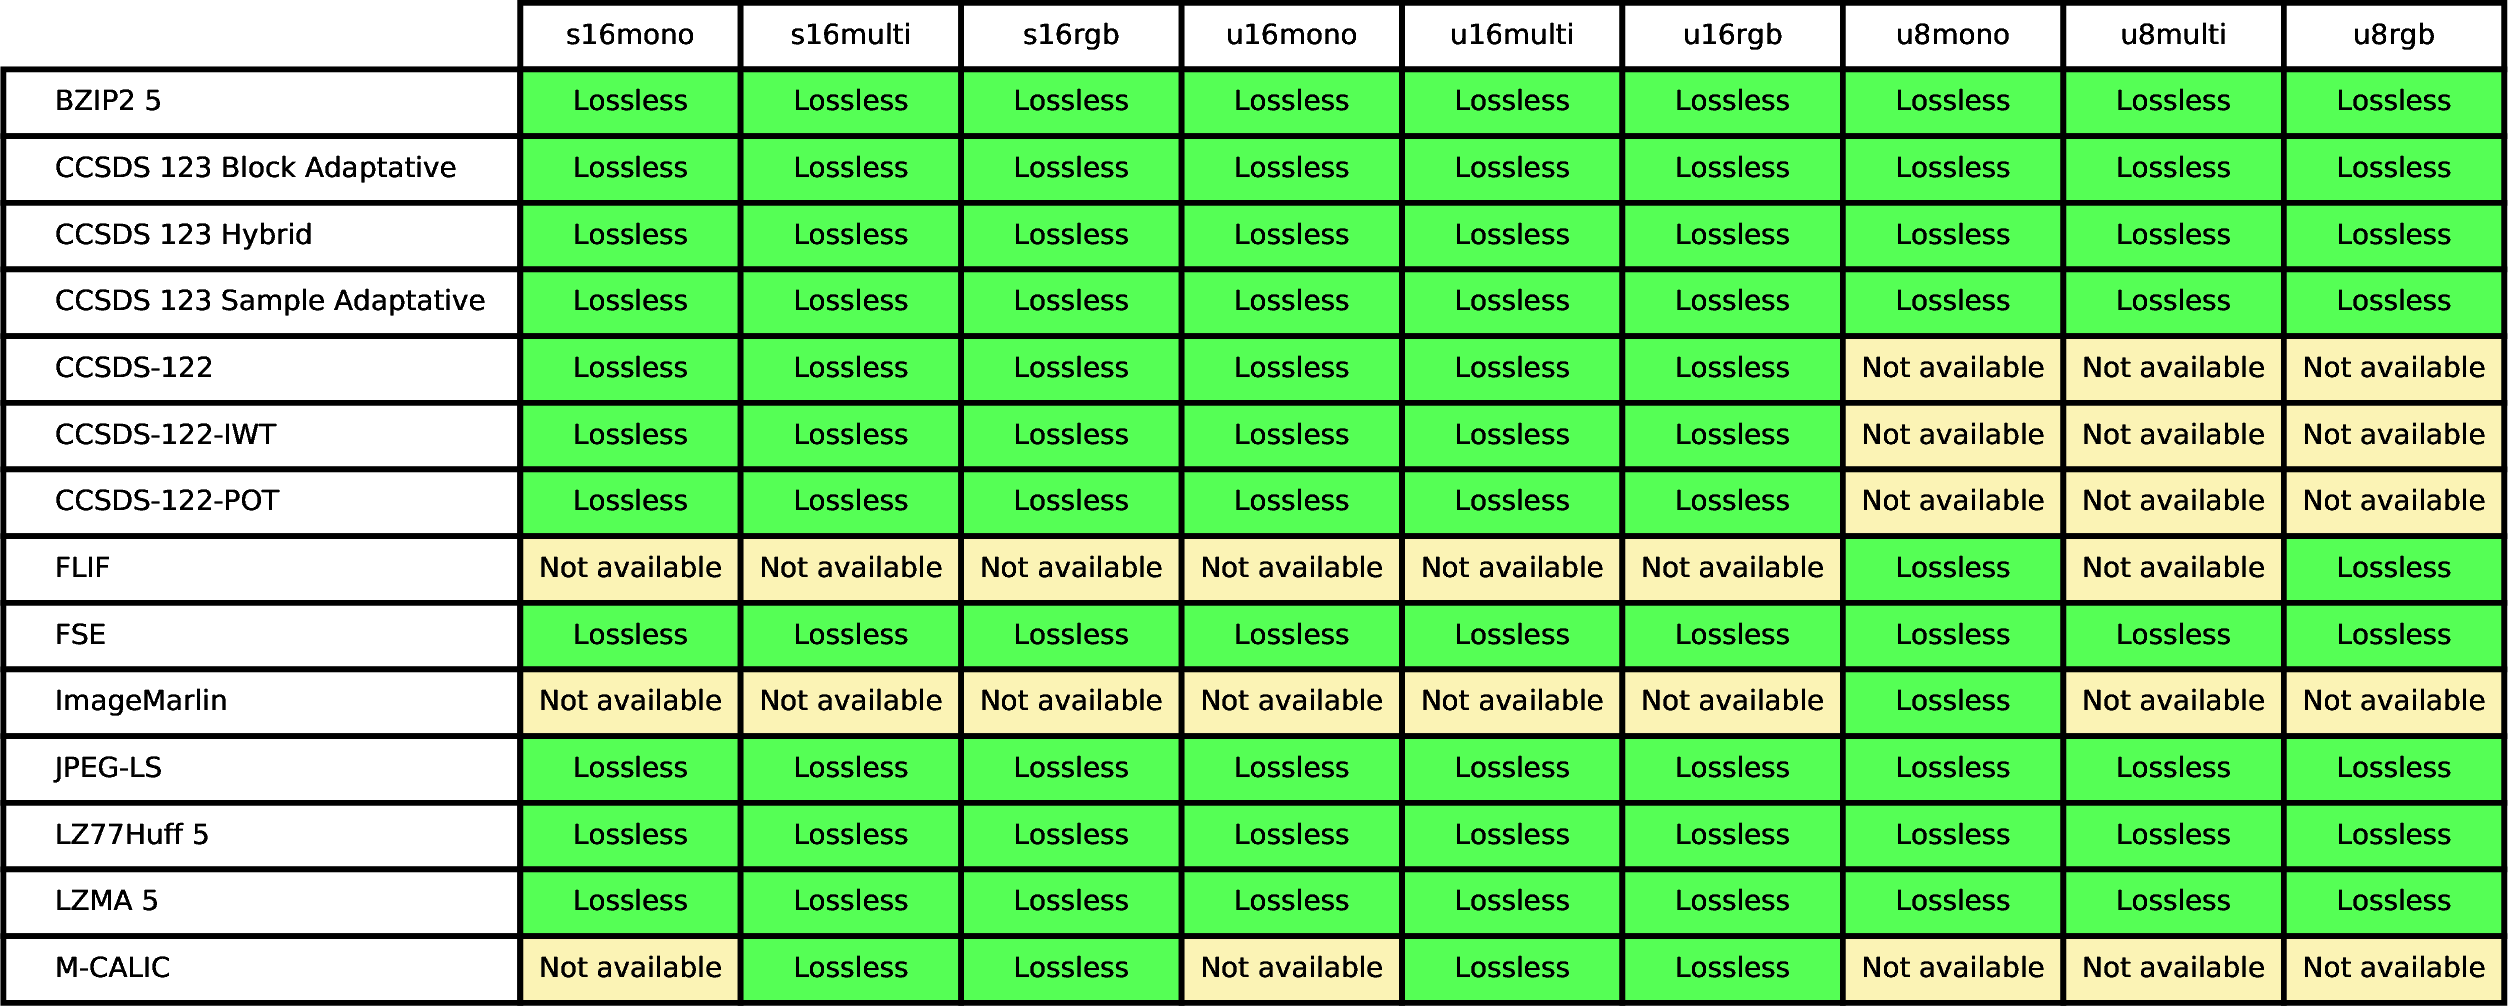
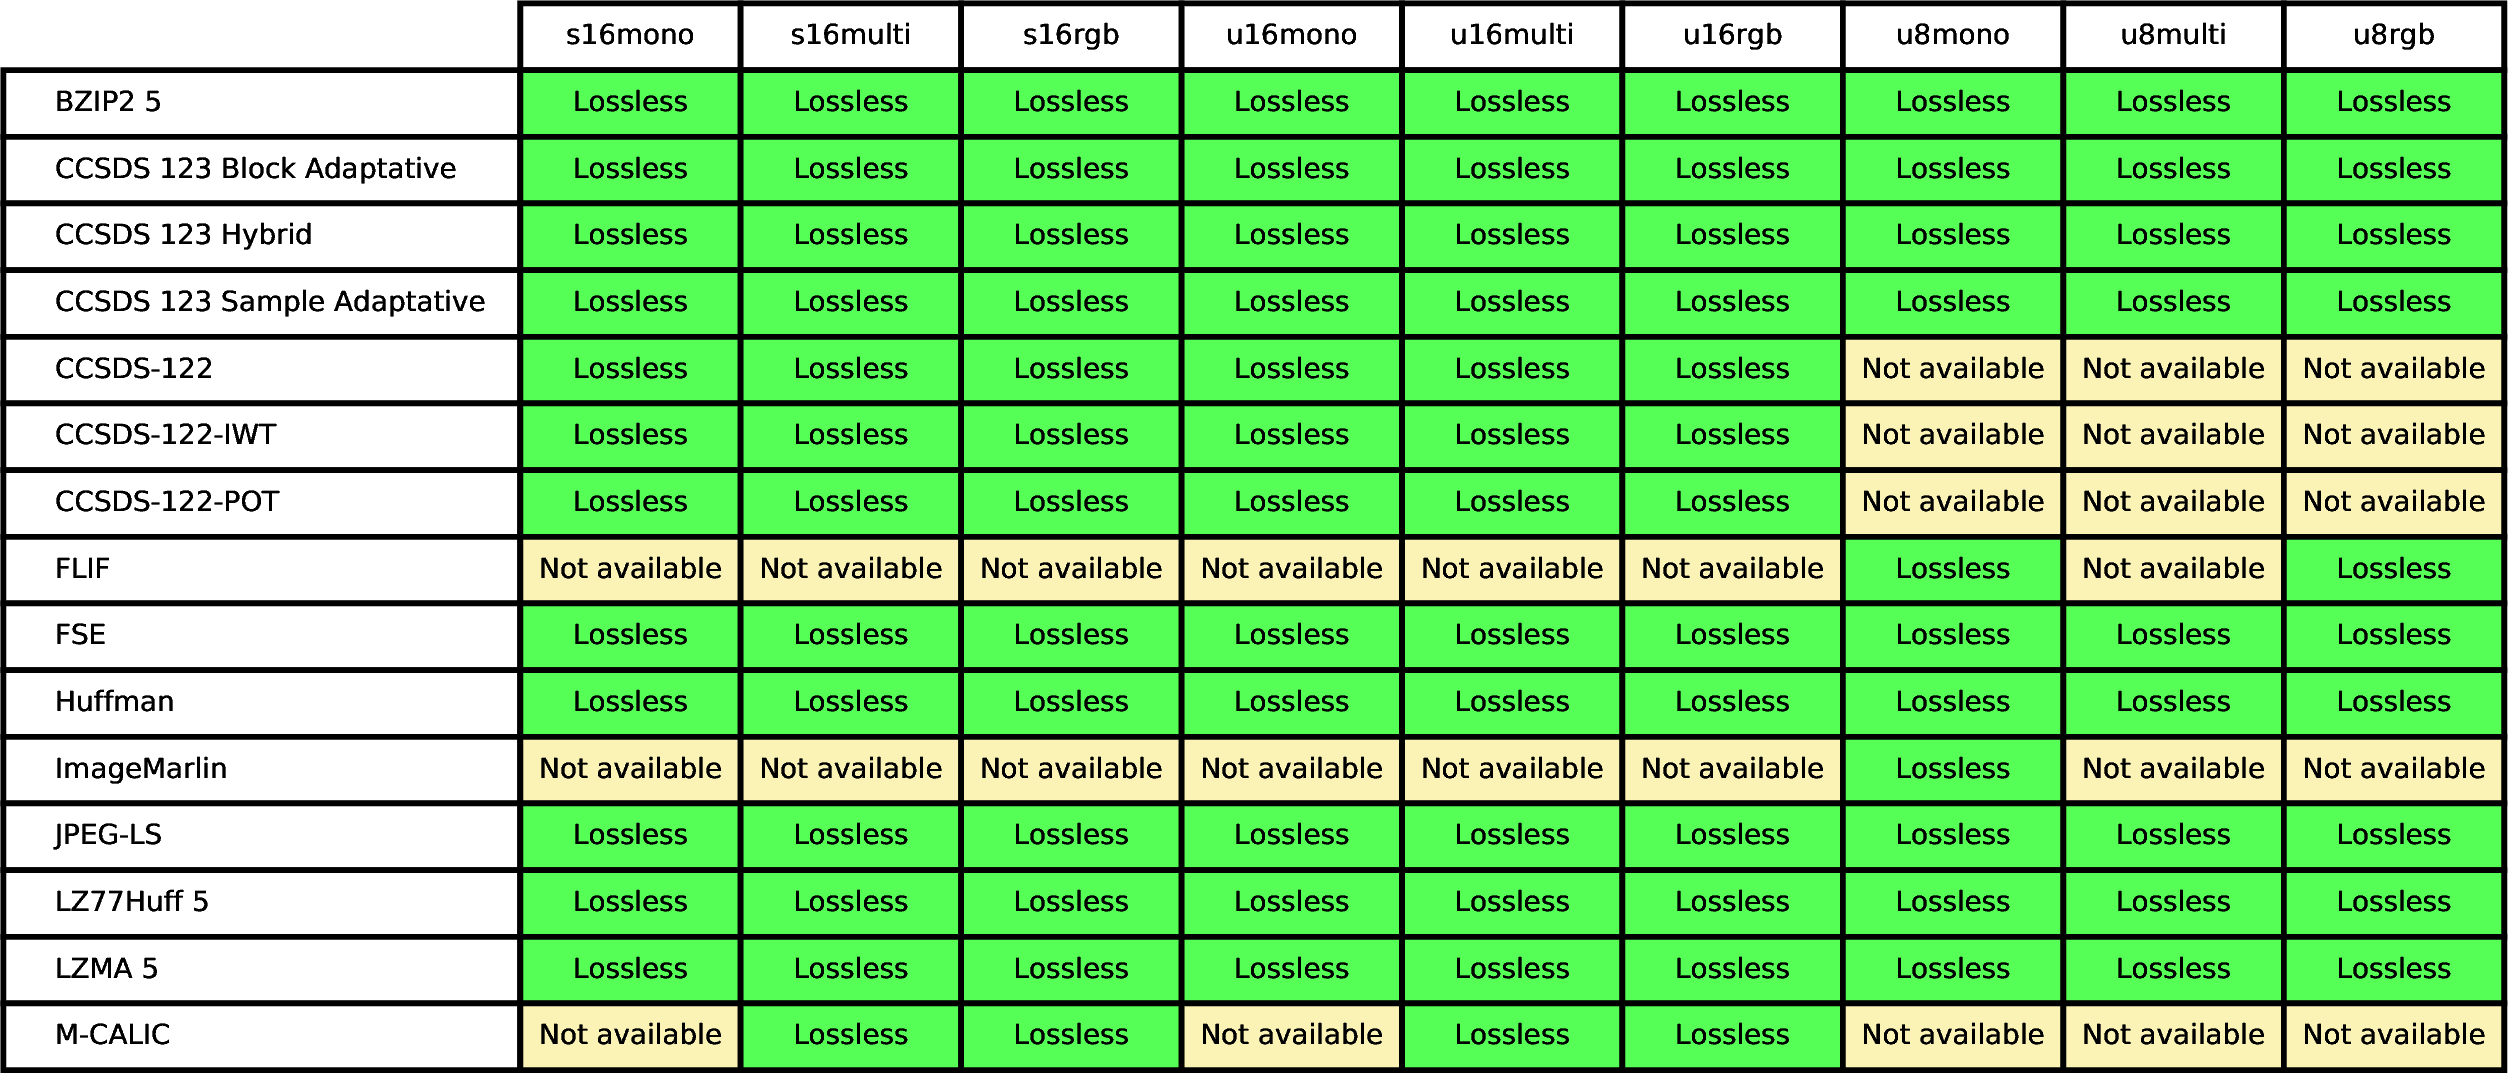
Merged esterjara's pull request (added missing an __init__.py)
Former-commit-id: fdf520b833d822e9996378cc73b7758d83b7cd35

diff --git a/plugins/test_all_codecs/test_all_codecs.py b/plugins/test_all_codecs/test_all_codecs.py
@@ -27,6 +27,7 @@ from plugins import plugin_ccsds122
 from plugins import plugin_fapec
 from plugins import plugin_flif
 from plugins import plugin_fse
+from plugins import plugin_huffman
 from plugins import plugin_lcnl
 from plugins import plugin_marlin
 from plugins import plugin_zip
@@ -80,6 +81,12 @@ if __name__ == '__main__':
         fse_family.add_task(c.name, f"{c.label}")
     all_families.append(fse_family)
 
+    huffman_family = enb.aanalysis.TaskFamily(label="Huffman")
+    for c in (plugin_huffman.huffman_codec.Huffman(),):
+        all_codecs.append(c)
+        huffman_family.add_task(c.name, f"{c.label}")
+    all_families.append(huffman_family)
+
     lcnl_family = enb.aanalysis.TaskFamily(label="LCNL")
     for c in (plugin_lcnl.lcnl_codecs.CCSDS_LCNL(entropy_coder_type=ec)
               for ec in (plugin_lcnl.lcnl_codecs.CCSDS_LCNL.ENTROPY_HYBRID,
@@ -122,7 +129,6 @@ if __name__ == '__main__':
     target_dir_names = [os.path.basename(d) for d in target_dirs]
     columns.extend(target_dir_names)
     df_capabilities = pd.DataFrame(columns=columns)
-    print(f"[watch] columns={columns}")
 
     table_codecs = all_codecs if len(sys.argv) == 1 else \
         [c for c in all_codecs if any(p.lower() in c.name.lower() for p in sys.argv[1:])]

diff --git a/plugins/plugin_huffman/huffman_codec.py b/plugins/plugin_huffman/huffman_codec.py
@@ -1,0 +1,26 @@
+import os
+from enb import icompression
+from enb.config import get_options
+
+options = get_options()
+
+class Huffman(icompression.WrapperCodec, icompression.LosslessCodec):
+	def __init__(self, huff_binary = os.path.join(os.path.dirname(os.path.abspath(__file__)), "Huff")):
+		icompression.WrapperCodec.__init__(self,
+			compressor_path=huff_binary,
+			decompressor_path=huff_binary,
+			param_dict=None, output_invocation_dir=None)
+		
+		self.huff_binary = huff_binary
+		
+		assert os.path.isfile(huff_binary)
+
+	def get_compression_params(self, original_path, compressed_path, original_file_info):
+		return f"-h -f {original_path} {compressed_path}"
+
+	def get_decompression_params(self, compressed_path, reconstructed_path, original_file_info):
+		return f"-h -d -f {compressed_path} {reconstructed_path}"
+
+	@property
+	def label(self):
+        	return "Huffman"

diff --git a/plugins/plugin_huffman/__init__.py b/plugins/plugin_huffman/__init__.py
@@ -1,0 +1,1 @@
+from . import huffman_codec
